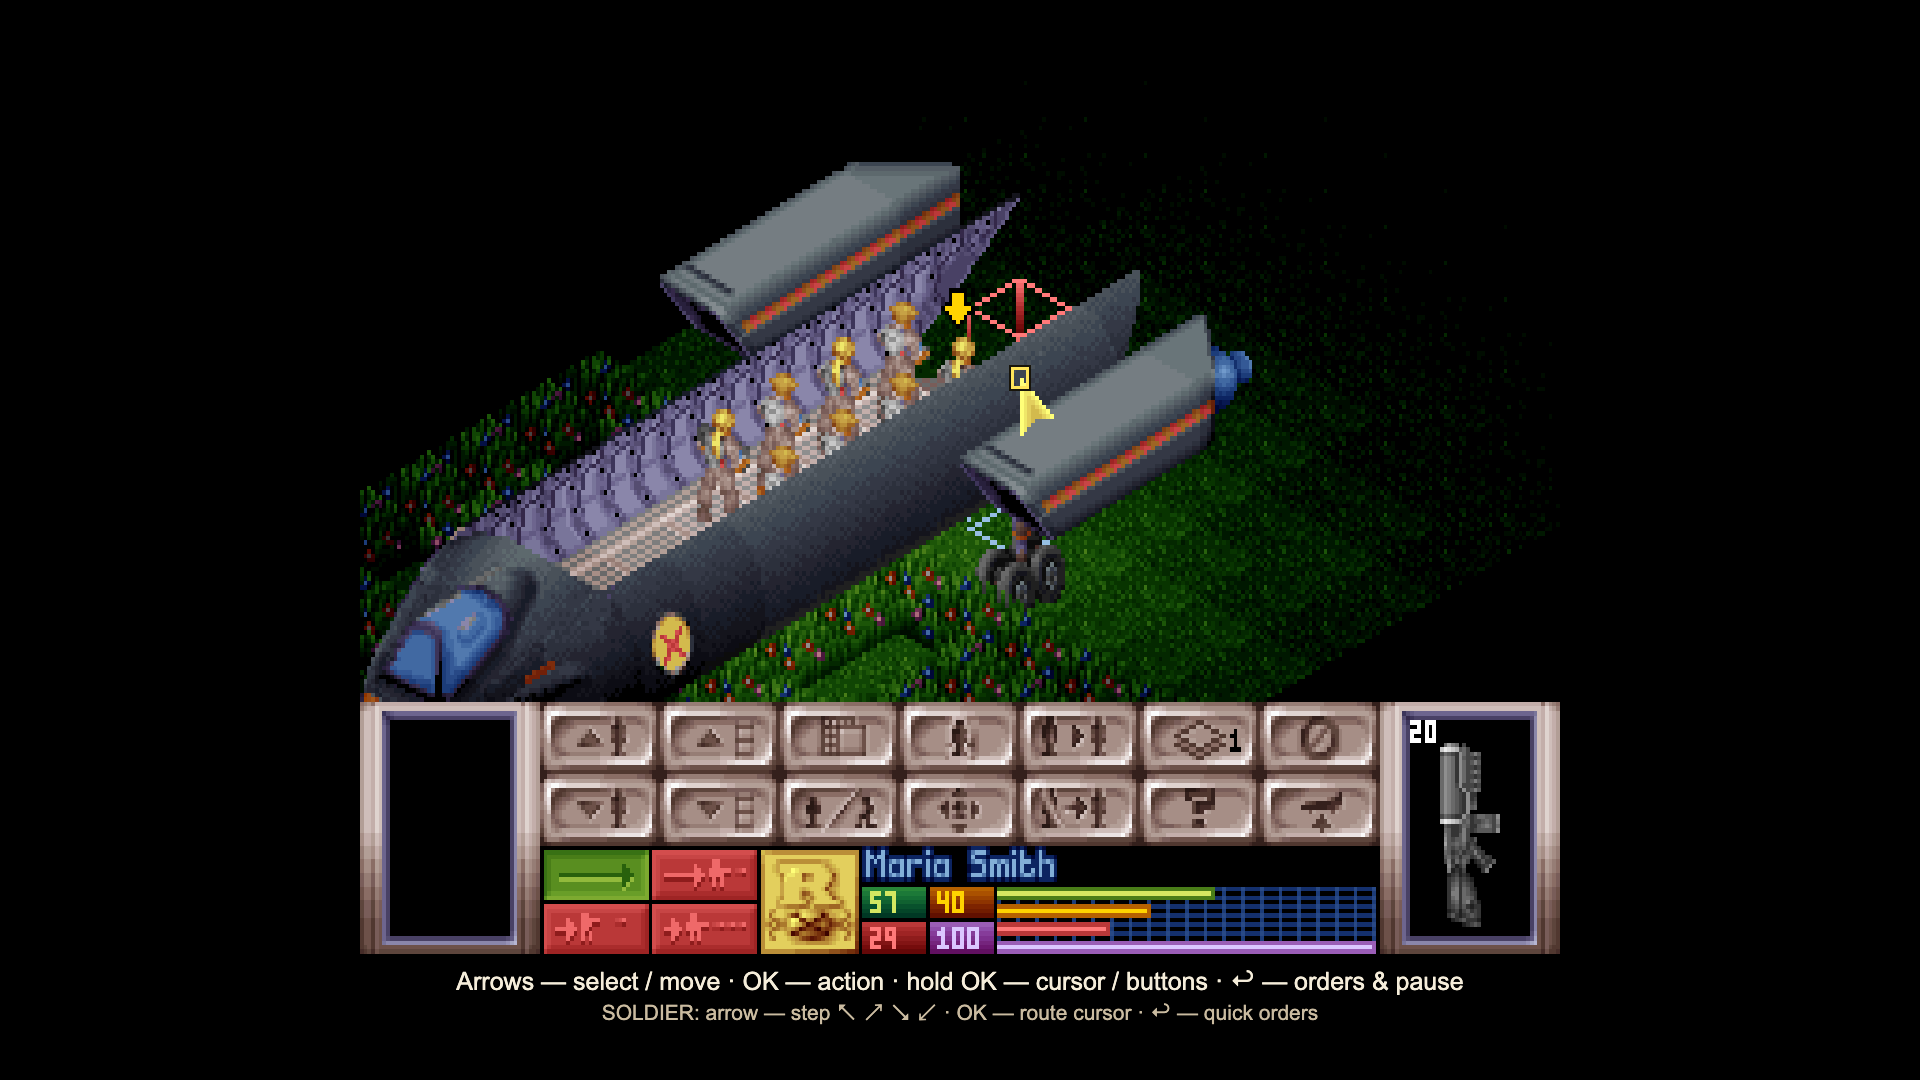
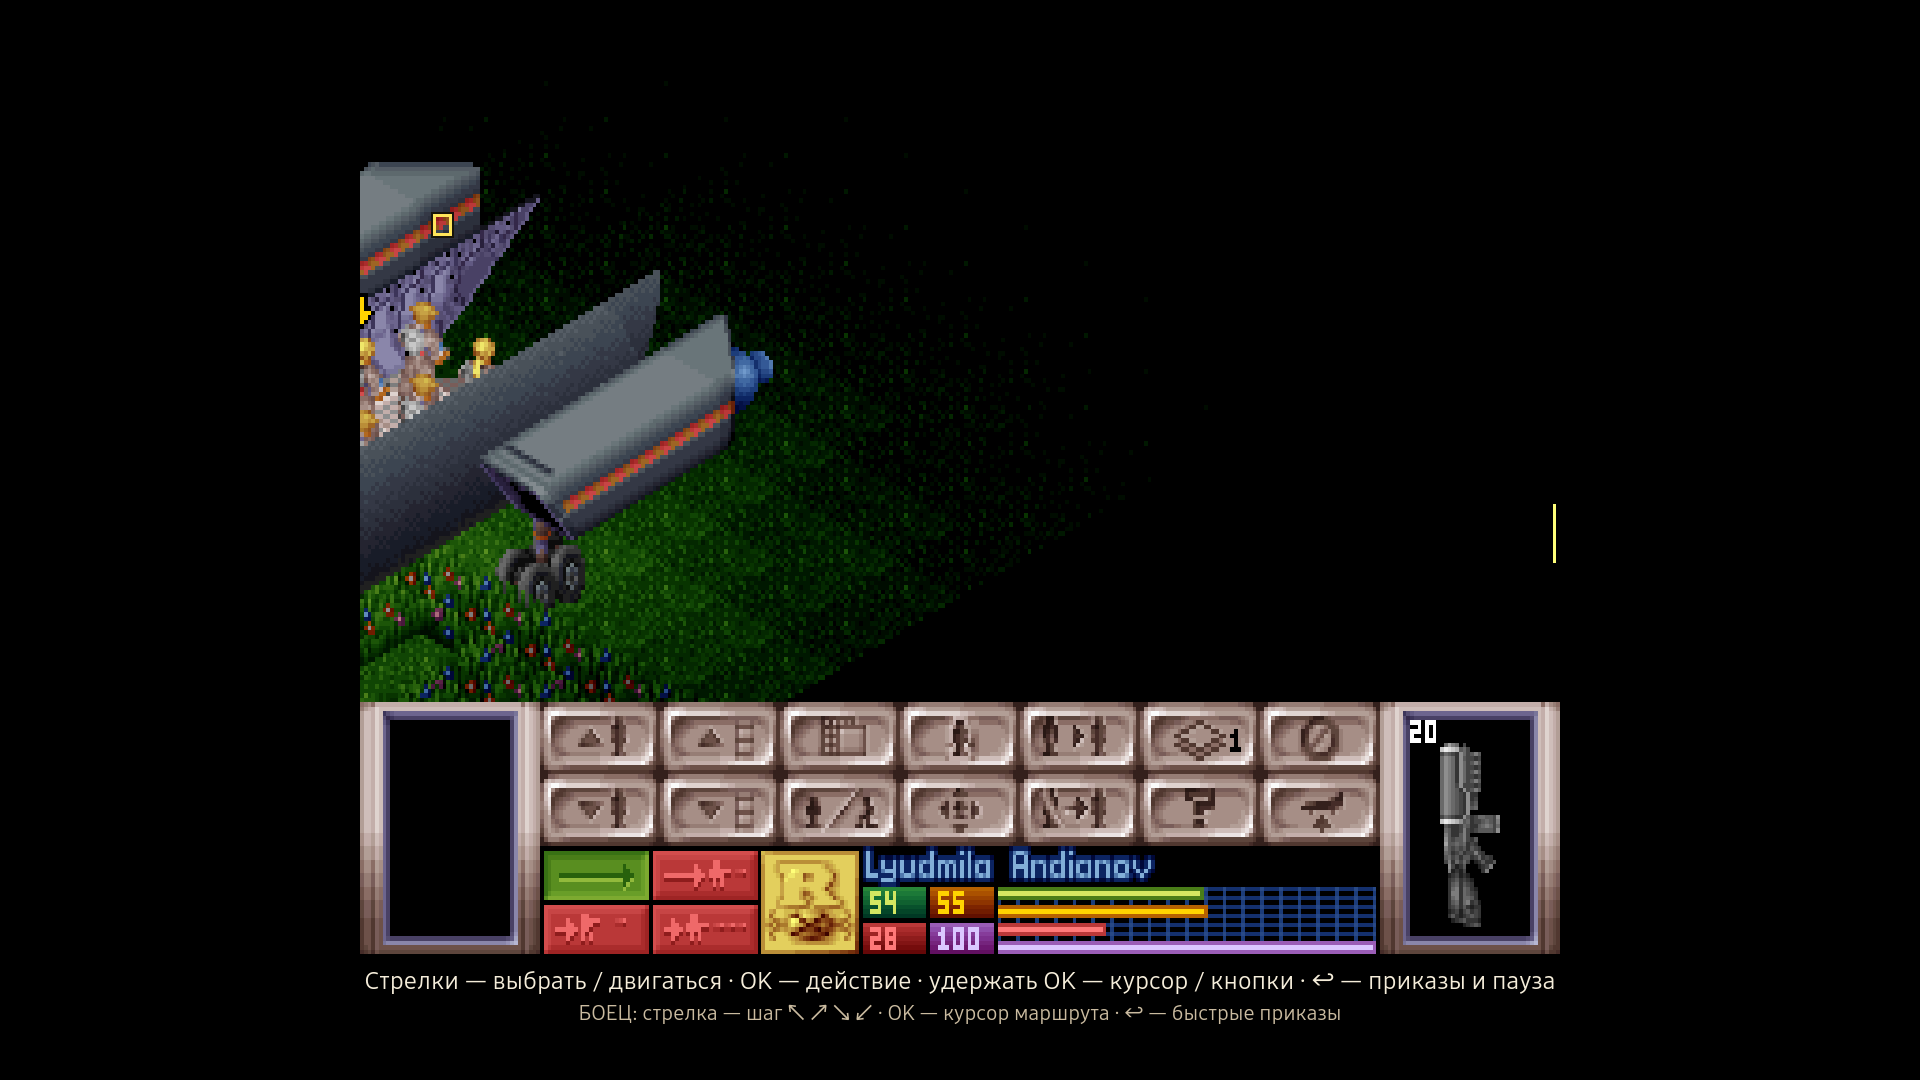
docs: replace gallery with physical Samsung TV captures

Changed region(s): [[0.1875, 0.1528, 0.7188, 0.6722], [0.1875, 0.8861, 0.8125, 0.9472], [0.4375, 0.7639, 0.6562, 0.8556]]

diff --git a/docs/examples.md b/docs/examples.md
@@ -20,36 +20,39 @@ assessing fidelity, completeness, and what an automated test can prove.
 
 ## Included captures
 
-| Published image | Source capture in the original game project | Environment |
+| Published image | Capture artifact in the original game project | Environment |
 | --- | --- | --- |
-| [X-COM](screenshots/xcom.png) | `output/playwright/skill-gallery-en/xcom.png` | Opera, English UI preview, 1920×1080 |
-| [Civilization gameplay](screenshots/civilization.png) | `output/playwright/civilization/original-map.png` | Browser verification, original Russian UI, 1920×1080 |
-| [Civilization ship orders](screenshots/civilization-orders-en.png) | `output/playwright/skill-gallery-en/civilization.png` | Opera, English UI preview, 1920×1080 |
-| [Dune II](screenshots/dune-ii.png) | `output/playwright/dune-controls/moving.png` | Browser verification, original Russian UI, 1920×1080 |
-| [Prince of Persia](screenshots/prince-of-persia.png) | `output/playwright/skill-gallery-en/prince-of-persia.png` | Opera, English UI preview, 1920×1080 |
-| [Zuma Deluxe](screenshots/zuma.png) | `output/playwright/skill-gallery-en/zuma.png` | Opera, English UI preview, 1920×1080 |
+| [X-COM](screenshots/xcom.png) | `output/skill-publication/tv-captures/xcom.png` | Physical Samsung TV, tactical battle, 1920×1080 |
+| [Civilization gameplay](screenshots/civilization.png) | `output/skill-publication/tv-captures/civilization.png` | Physical Samsung TV, original Russian game, 1920×1080 |
+| [Civilization ship orders](screenshots/civilization-orders.png) | `output/skill-publication/tv-captures/civilization-orders.png` | Physical Samsung TV, actual Russian order panel, 1920×1080 |
+| [Dune II](screenshots/dune-ii.png) | `output/skill-publication/tv-captures/dune-ii.png` | Physical Samsung TV, original Russian mission, 1920×1080 |
+| [Prince of Persia](screenshots/prince-of-persia.png) | `output/skill-publication/tv-captures/prince-of-persia.png` | Physical Samsung TV, original DOS gameplay, 1920×1080 |
+| [Zuma Deluxe](screenshots/zuma.png) | `output/skill-publication/tv-captures/zuma.png` | Physical Samsung TV, HTML/Canvas adaptation, 1920×1080 |
 
-The X-COM, Prince of Persia, and Zuma screenshots were captured on 2026-10-28
-from running local ports in isolated Opera browser contexts. Their remote-control
-hints and Zuma interface text were translated in the live page before capture.
-X-COM and Prince of Persia already render their native game text in English.
+All six images were captured on 2026-10-28 from a Samsung UE65TU8570UXRU,
+running Tizen 5.5 and Chromium 69. The capture session verifies the device's
+SMART-TV user agent, application ID, 1920×1080 application viewport, and game
+state. English and Russian text is retained as the TV renders it; no translation
+preview, cropping, retouching, or generated game imagery is used.
 
-Dune II and Civilization gameplay screenshots show the actual game field without
-a modal order menu. Both retain the original Russian HUD and remote-control hints
-and are copied without alteration from the verification artifacts listed above.
+This TV does not return frames through CDP `Page.captureScreenshot` or screencast.
+Instead, its Web Inspector exports the application's painted render layers using
+`LayerTree.makeSnapshot` and `LayerTree.replaySnapshot`. An offscreen Canvas on the
+**same TV** composites those layer bitmaps in their existing order, positions,
+and transforms, then exports the PNG. This captures both the game and its remote
+interface without rendering the game in a desktop browser. It is an application
+render capture, not a camera photograph, HDMI capture, or measurement of the TV's
+physical panel processing.
 
-The additional Civilization ship-order screenshot is an English documentation
-preview captured from the running port in Opera on 2026-10-28. Its panel text and
-hints were translated in the live page. CSS clipping omits the top 5% and left 25%
-of the native canvas to avoid the untranslated HUD; the image is labeled
-ENGLISH UI PREVIEW. The original DOS program and gameplay interface remain Russian.
-
-The English previews are documentation presentation, not a claim that the installed
-ports have received a complete localization. No game executables, game rules, or
-original art were changed. The PNGs were captured directly from the original ports
-or the live English previews; no image retouching or AI-generated game imagery was
-used. Source game files, test fixtures, and capture runners belong to the original
-project and are not distributed in this skill repository.
+Temporary signed copies use separate application identities and storage origins.
+X-COM and Dune II load test checkpoints; Civilization uses a prepared ship
+checkpoint. Prince of Persia and Zuma run their normal gameplay. Capture copies
+preserve the source game rules, rendering, audio, and interface; test-only startup
+seeding and Civilization inspection hooks prepare the scenes. The original game
+applications and user saves remain separate. The temporary applications and SDB
+forwarding are removed after capture. Per-frame JSON records, raw layer PNGs,
+source hashes, and install logs remain in the original project's capture folder;
+game content and the capture utilities are not distributed with this skill.
 
 ## What is and is not established
 

diff --git a/README.md b/README.md
@@ -16,19 +16,19 @@ performance measurement, and verification of the final TV package.
 
 ## Games behind the workflow
 
-The gallery uses **English interface previews for X-COM, Prince of Persia, and
-Zuma**, captured from running ports in isolated Opera sessions. **Dune II and
-Civilization gameplay retain their original Russian interfaces**. A separate
-Civilization ship-order panel demonstrates the controls in English. These are
-browser captures, not physical-TV performance measurements; see the capture notes
-for language and provenance.
+All six images below come from games running on a **physical Samsung
+UE65TU8570UXRU TV, Tizen 5.5 / Chromium 69**, captured on 2026-10-28.
+They retain the actual game and remote-control interface shown by the TV;
+English captions describe the original English and Russian interfaces.
+See the [capture notes](docs/examples.md#included-captures) for the render-layer
+capture method, isolated game sessions, and verification limits.
 
 | X-COM: UFO Defense | Dune II |
 | --- | --- |
 | ![X-COM Battlescape with remote-control hints](docs/screenshots/xcom.png) | ![Dune II mission gameplay with units, base, native command buttons, and minimap](docs/screenshots/dune-ii.png) |
 | Original DOS game with tactical movement and contextual actions. | Original DOS mission with units, a base, and the native command panel. |
 | **Prince of Persia** | **Zuma Deluxe** |
-| ![Prince of Persia gameplay with English remote-control hints](docs/screenshots/prince-of-persia.png) | ![Zuma TV adaptation with aim, fire, ball swap, and precision controls](docs/screenshots/zuma.png) |
+| ![Prince of Persia gameplay captured on a physical Samsung TV](docs/screenshots/prince-of-persia.png) | ![Zuma TV adaptation with aim, fire, ball swap, and precision controls](docs/screenshots/zuma.png) |
 | Original DOS platformer with a running-jump input adapter. | HTML/Canvas adaptation using original resources; it does not execute the Windows game. |
 
 **Sid Meier's Civilization — gameplay**
@@ -39,10 +39,10 @@ Original DOS gameplay with the world map, active unit, and native Russian interf
 
 **Sid Meier's Civilization — contextual ship orders**
 
-![English Civilization quick-order panel with sentry, skip-turn, wait, and all-command actions](docs/screenshots/civilization-orders-en.png)
+![Civilization ship-order panel captured on the TV, showing sentry, skip-turn, wait, and all commands in the actual Russian interface](docs/screenshots/civilization-orders.png)
 
-English documentation preview of object-specific quick actions and persistent
-sentry duty. The original DOS game remains in Russian.
+Object-specific quick actions and persistent sentry duty, shown in the actual
+Russian TV interface. Return opens the panel; a direction selects an order.
 
 See [examples and capture provenance](docs/examples.md) for the demonstrated
 behaviors and the limits of what these screenshots prove. Game archives,
